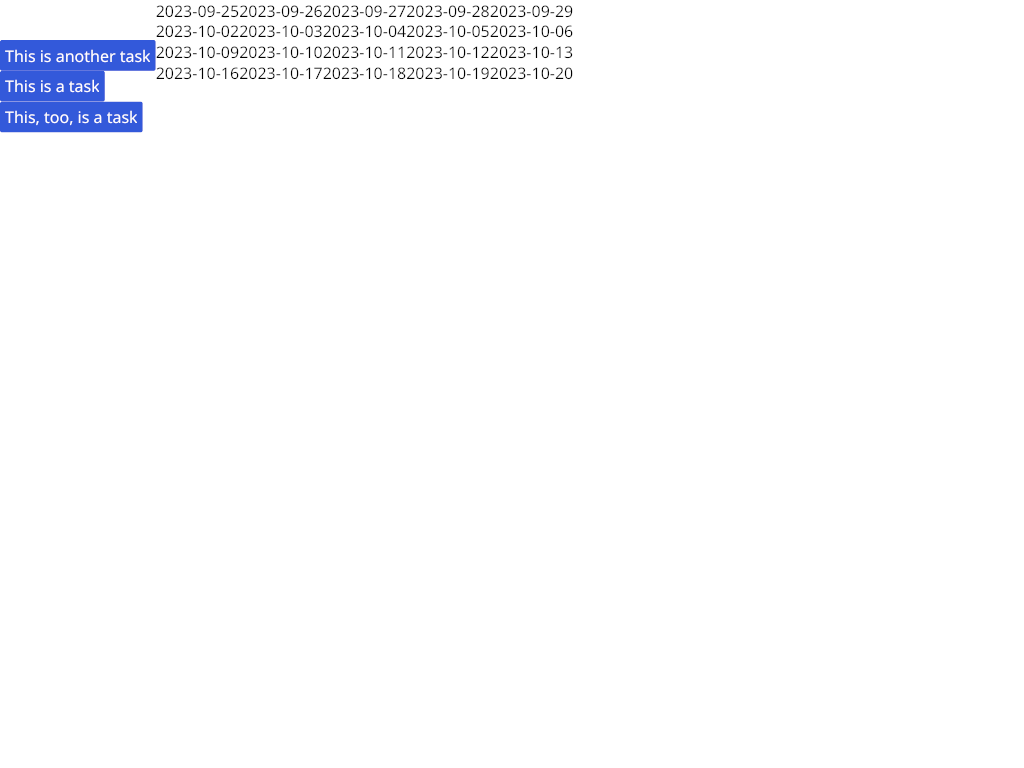
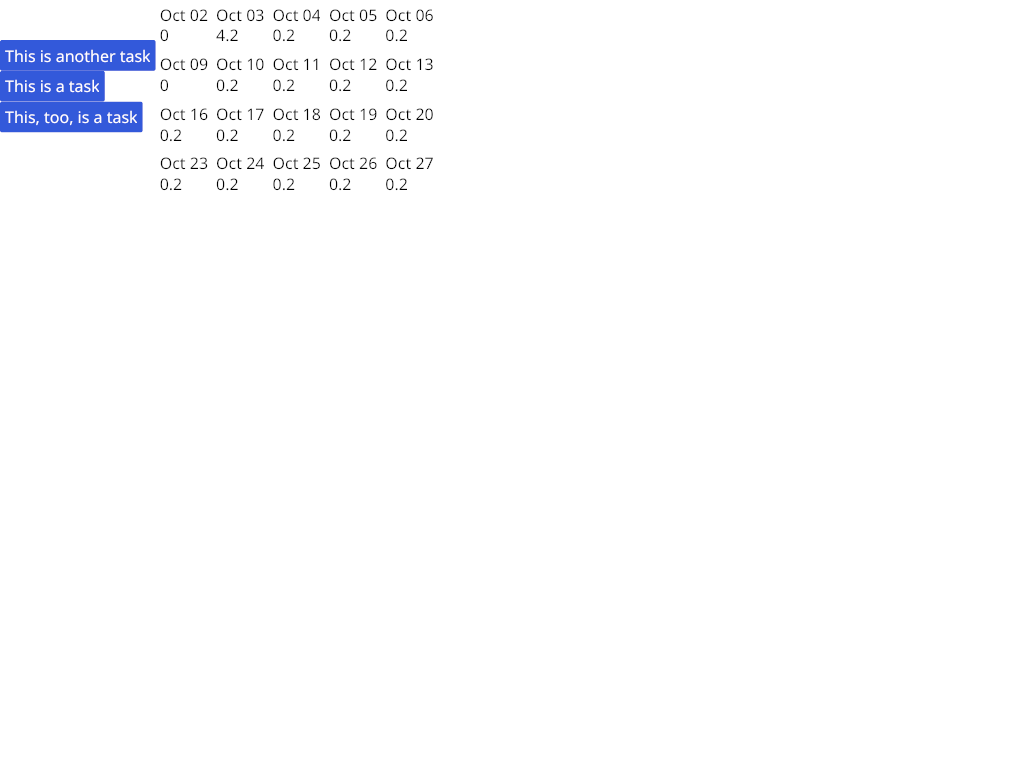
Make calendar show actual workload for that day

Changed region(s): [[0.1562, 0.0, 0.5625, 0.25]]

diff --git a/frontend/src/main.rs b/frontend/src/main.rs
@@ -108,7 +108,7 @@ fn Calendar(schedule: &Schedule) -> Element<'static, Message>{
             .iter()
             .map(|d| Row::with_children(
                 week_of(*d).iter().map(
-                    |d| Element::from(CalDay(*d, 0.0).padding(4)) //TODO Correct the passed load
+                    |d| Element::from(CalDay(*d, schedule.workload_on_day(*d)).padding(4)) //TODO Correct the passed load
                 ).collect()
             ).into())
             .collect()
@@ -116,13 +116,13 @@ fn Calendar(schedule: &Schedule) -> Element<'static, Message>{
 }
 
 #[allow(non_snake_case)]
-fn CalDay(day: NaiveDate, load: f32) -> Column<'static, Message>{
+fn CalDay(day: NaiveDate, load: u32) -> Column<'static, Message>{
     column![
         text(
             day.format("%b %d")
         ),
         text(
-            format!("{:.1}", load)
+            format!("{}", load as f32/60.0)
         )
     ]
 }
